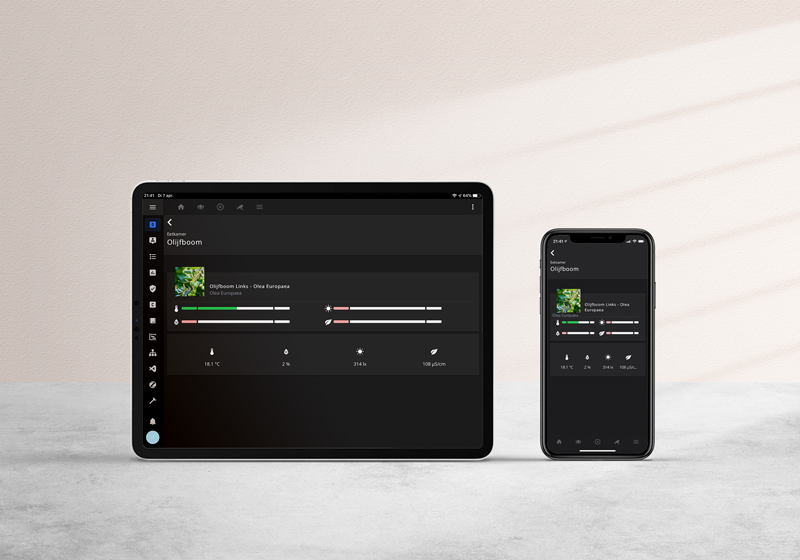
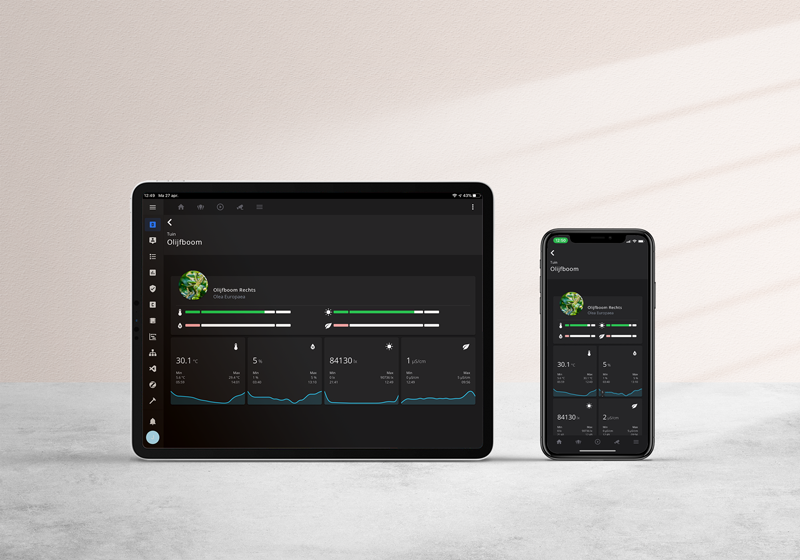
Plant v1.1.0

diff --git a/rooms/plant/README.md b/rooms/plant/README.md
@@ -1,5 +1,5 @@
 # Plant Add-on (rooms)
-##### Created by Jeroen Klompen
+##### Created by [Jeroen Klompen](https://github.com/klumpke/)
 
 
 ### Installation
@@ -31,7 +31,10 @@ To use this add-on in your Dwains Theme, add the following to your `custom_resou
         path: 'dwains-theme/addons/rooms/livingroom/plant/page.yaml'
         button_path: 'dwains-theme/addons/rooms/livingroom/plant/button.yaml'
         data:
-          entity: plant.olive_tree
+          plant: plant.olive_tree
+          plant_species: olea europaea
+          plant2: plant.olive_tree2
+          plant2_species: olea europaea
 ```
 
 ### Screenshots
@@ -43,6 +46,10 @@ To use this add-on in your Dwains Theme, add the following to your `custom_resou
 
 
 ### Changelog
+#### 1.1.0
+- **BREAKING CHANGE**: It's now possible to define your sensors in the `rooms.yaml` file so you don't have to edit the `page.yaml` file
+- Tablet view
+- Added history graphs
 #### 1.0.0
 - First release
 
@@ -51,5 +58,3 @@ To use this add-on in your Dwains Theme, add the following to your `custom_resou
 If you like my work please feel free to buy me a coffee
 
 <a href="https://www.buymeacoffee.com/klumpke" target="_blank"><img src="https://www.buymeacoffee.com/assets/img/custom_images/white_img.png" alt="Buy Me A Coffee"></a>
-
-<a href="https://www.paypal.com/cgi-bin/webscr?cmd=_s-xclick&hosted_button_id=T6QQWUABDP65G&source=url"><img src="https://www.paypalobjects.com/en_US/NL/i/btn/btn_donateCC_LG.gif" alt="Donate with PayPal"></a>
